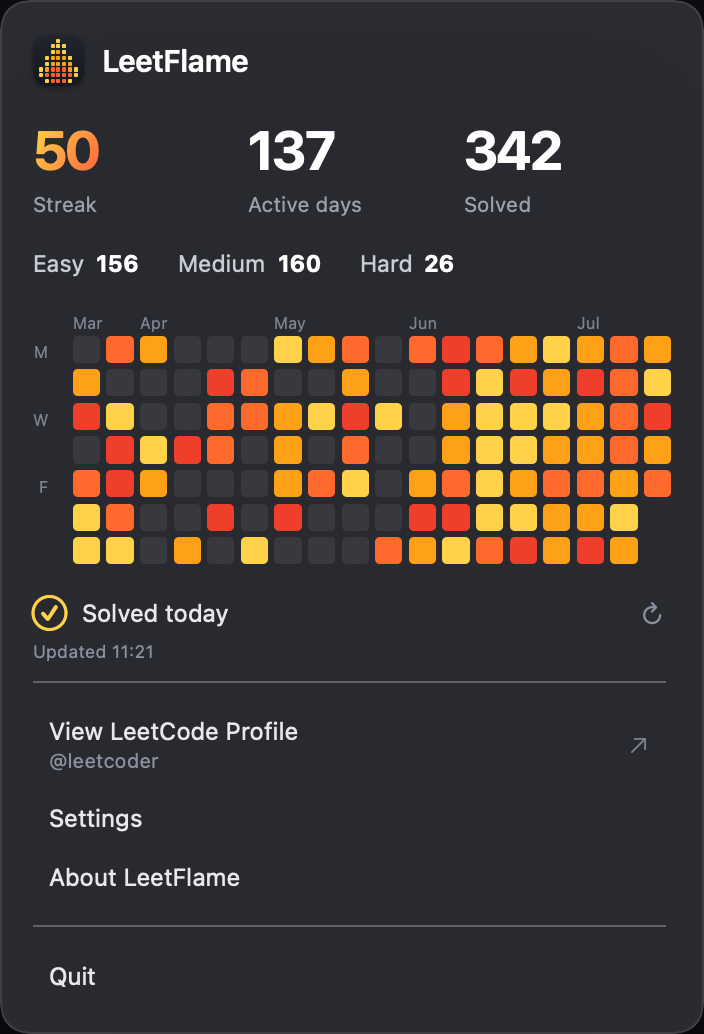
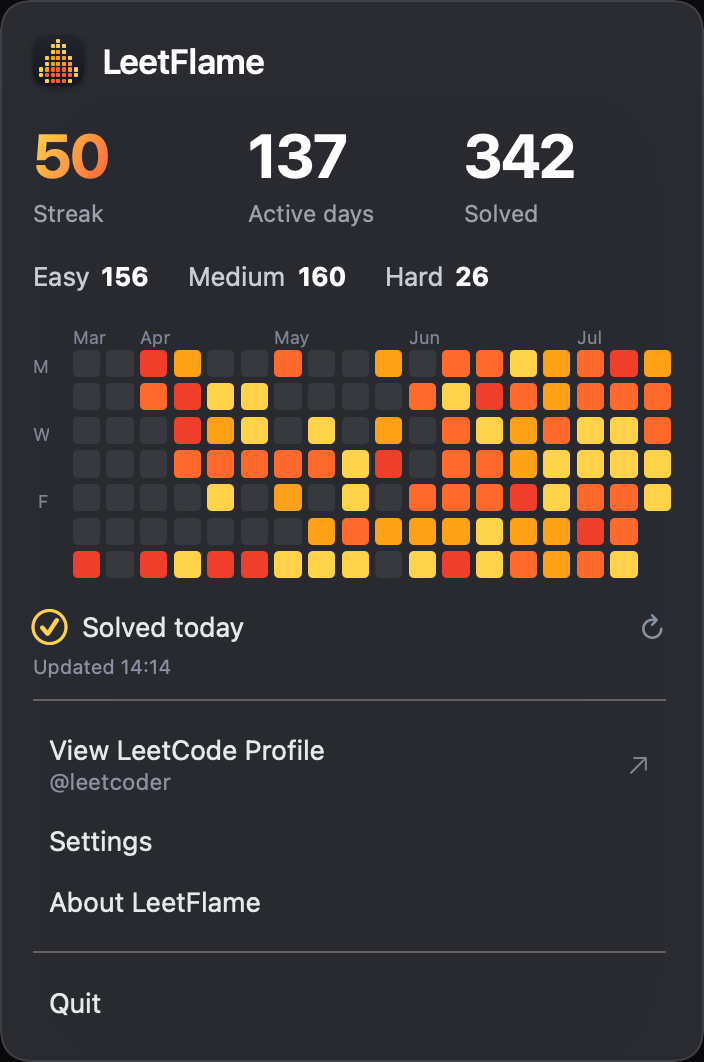
Enlarge popover fonts while keeping compact layout
Decouple font sizing from layout scale via Theme.UI.fontScale (0.9) so
text is easier to read without growing the overall popover size.

diff --git a/Sources/LeetCodeStreakWidget/ContentView.swift b/Sources/LeetCodeStreakWidget/ContentView.swift
@@ -2,6 +2,7 @@ import SwiftUI
 import AppKit
 
 private func s(_ v: CGFloat) -> CGFloat { Theme.UI.s(v) }
+private func f(_ v: CGFloat) -> CGFloat { Theme.UI.f(v) }
 
 struct ContentView: View {
     @ObservedObject var store: StreakStore
@@ -25,12 +26,12 @@ struct ContentView: View {
             } else if store.errorMessage != nil, store.stats == nil {
                 VStack(alignment: .leading, spacing: s(10)) {
                     Text("Couldn't reach LeetCode. Double-check the username and your connection.")
-                        .font(.system(size: s(13)))
+                        .font(.system(size: f(13)))
                         .foregroundColor(Theme.textSecondary)
                         .fixedSize(horizontal: false, vertical: true)
                     Button(action: { store.refresh() }) {
                         Label("Try again", systemImage: "arrow.clockwise")
-                            .font(.system(size: s(13), weight: .medium))
+                            .font(.system(size: f(13), weight: .medium))
                     }
                     .buttonStyle(.plain)
                     .foregroundColor(Theme.flameL2)
@@ -82,7 +83,7 @@ struct ContentView: View {
         HStack(spacing: s(11)) {
             HeaderIconTile()
             Text("LeetFlame")
-                .font(.system(size: s(19), weight: .semibold))
+                .font(.system(size: f(19), weight: .semibold))
                 .tracking(-0.2)
         }
     }
@@ -90,7 +91,7 @@ struct ContentView: View {
     private var onboardingPrompt: some View {
         VStack(alignment: .leading, spacing: s(10)) {
             Text("Enter your LeetCode username to get started")
-                .font(.system(size: s(14)))
+                .font(.system(size: f(14)))
                 .foregroundColor(Theme.textMenu)
             HStack {
                 TextField("your LeetCode username", text: $usernameInput)
@@ -115,18 +116,18 @@ struct ContentView: View {
         HStack(spacing: s(8)) {
             statColumn {
                 Text("\(store.currentStreak)")
-                    .font(.system(size: s(34), weight: .bold))
+                    .font(.system(size: f(34), weight: .bold))
                     .tracking(-1)
                     .foregroundStyle(Theme.streakGradient)
             } label: { "Streak" }
             statColumn {
                 Text("\(stats.totalActiveDays)")
-                    .font(.system(size: s(34), weight: .bold))
+                    .font(.system(size: f(34), weight: .bold))
                     .tracking(-1)
             } label: { "Active days" }
             statColumn {
                 Text("\(stats.totalSolved)")
-                    .font(.system(size: s(34), weight: .bold))
+                    .font(.system(size: f(34), weight: .bold))
                     .tracking(-1)
             } label: { "Solved" }
         }
@@ -137,7 +138,7 @@ struct ContentView: View {
         VStack(alignment: .leading, spacing: s(6)) {
             content()
             Text(label())
-                .font(.system(size: s(13)))
+                .font(.system(size: f(13)))
                 .foregroundColor(Theme.textSecondary)
         }
         .frame(maxWidth: .infinity, alignment: .leading)
@@ -149,7 +150,7 @@ struct ContentView: View {
             difficultyItem("Medium", stats.mediumSolved)
             difficultyItem("Hard", stats.hardSolved)
         }
-        .font(.system(size: s(14.5)))
+        .font(.system(size: f(14.5)))
     }
 
     private func difficultyItem(_ label: String, _ count: Int) -> some View {
@@ -169,7 +170,7 @@ struct ContentView: View {
                     .foregroundColor(Theme.textTertiary)
             }
         }
-        .font(.system(size: s(11)))
+        .font(.system(size: f(11)))
     }
 
     private var dailyStatusRow: some View {
@@ -186,7 +187,7 @@ struct ContentView: View {
             Spacer()
             refreshButton
         }
-        .font(.system(size: s(15)))
+        .font(.system(size: f(15)))
     }
 
     private var refreshButton: some View {
@@ -198,7 +199,7 @@ struct ContentView: View {
                     .frame(width: s(18), height: s(18))
             } else {
                 Image(systemName: "arrow.clockwise")
-                    .font(.system(size: s(13), weight: .semibold))
+                    .font(.system(size: f(13), weight: .semibold))
                     .foregroundColor(Theme.textTertiary)
                     .frame(width: s(18), height: s(18))
             }
@@ -216,7 +217,7 @@ private struct StatusRing: View {
         ZStack {
             Circle().stroke(color, lineWidth: s(2))
             Image(systemName: symbol)
-                .font(.system(size: s(11), weight: .black))
+                .font(.system(size: f(11), weight: .black))
                 .foregroundColor(color)
         }
         .frame(width: s(21), height: s(21))
@@ -239,18 +240,18 @@ private struct MenuRow: View {
             HStack {
                 VStack(alignment: .leading, spacing: s(1)) {
                     Text(title)
-                        .font(.system(size: s(15)))
+                        .font(.system(size: f(15)))
                         .foregroundColor(Theme.textMenu)
                     if let subtitle {
                         Text(subtitle)
-                            .font(.system(size: s(12.5)))
+                            .font(.system(size: f(12.5)))
                             .foregroundColor(Theme.textTertiary)
                     }
                 }
                 Spacer()
                 if let trailingGlyph {
                     Image(systemName: trailingGlyph)
-                        .font(.system(size: s(13)))
+                        .font(.system(size: f(13)))
                         .foregroundColor(Theme.textAxis)
                 }
             }

diff --git a/Sources/LeetCodeStreakWidget/Theme.swift b/Sources/LeetCodeStreakWidget/Theme.swift
@@ -5,8 +5,13 @@ enum Theme {
     /// every dimension (fonts, padding, heatmap cells) uniformly.
     enum UI {
         static let scale: CGFloat = 0.8
-        /// Scales a dimension by the global factor.
+        /// Fonts scale less aggressively than layout so text stays readable
+        /// in the compact popover.
+        static let fontScale: CGFloat = 0.9
+        /// Scales a layout dimension (padding, frames, cells) by the global factor.
         static func s(_ value: CGFloat) -> CGFloat { value * scale }
+        /// Scales a font size by the (larger) font factor.
+        static func f(_ value: CGFloat) -> CGFloat { value * fontScale }
     }
 
     static let textPrimary = Color.white

diff --git a/Sources/LeetCodeStreakWidget/HeatmapView.swift b/Sources/LeetCodeStreakWidget/HeatmapView.swift
@@ -1,6 +1,7 @@
 import SwiftUI
 
 private func s(_ v: CGFloat) -> CGFloat { Theme.UI.s(v) }
+private func f(_ v: CGFloat) -> CGFloat { Theme.UI.f(v) }
 
 struct HeatmapView: View {
     let data: HeatmapData
@@ -37,7 +38,7 @@ struct HeatmapView: View {
                 Color.clear.frame(height: s(16))
                 ForEach(0..<7, id: \.self) { row in
                     Text(dayLabel(row))
-                        .font(.system(size: s(10)))
+                        .font(.system(size: f(10)))
                         .foregroundColor(Theme.textAxis)
                         .frame(height: s(17), alignment: .center)
                 }
@@ -55,7 +56,7 @@ struct HeatmapView: View {
                             .overlay(alignment: .leading) {
                                 if let label = data.monthLabels[i] {
                                     Text(label)
-                                        .font(.system(size: s(10)))
+                                        .font(.system(size: f(10)))
                                         .foregroundColor(Theme.textAxis)
                                         .fixedSize()
                                 }